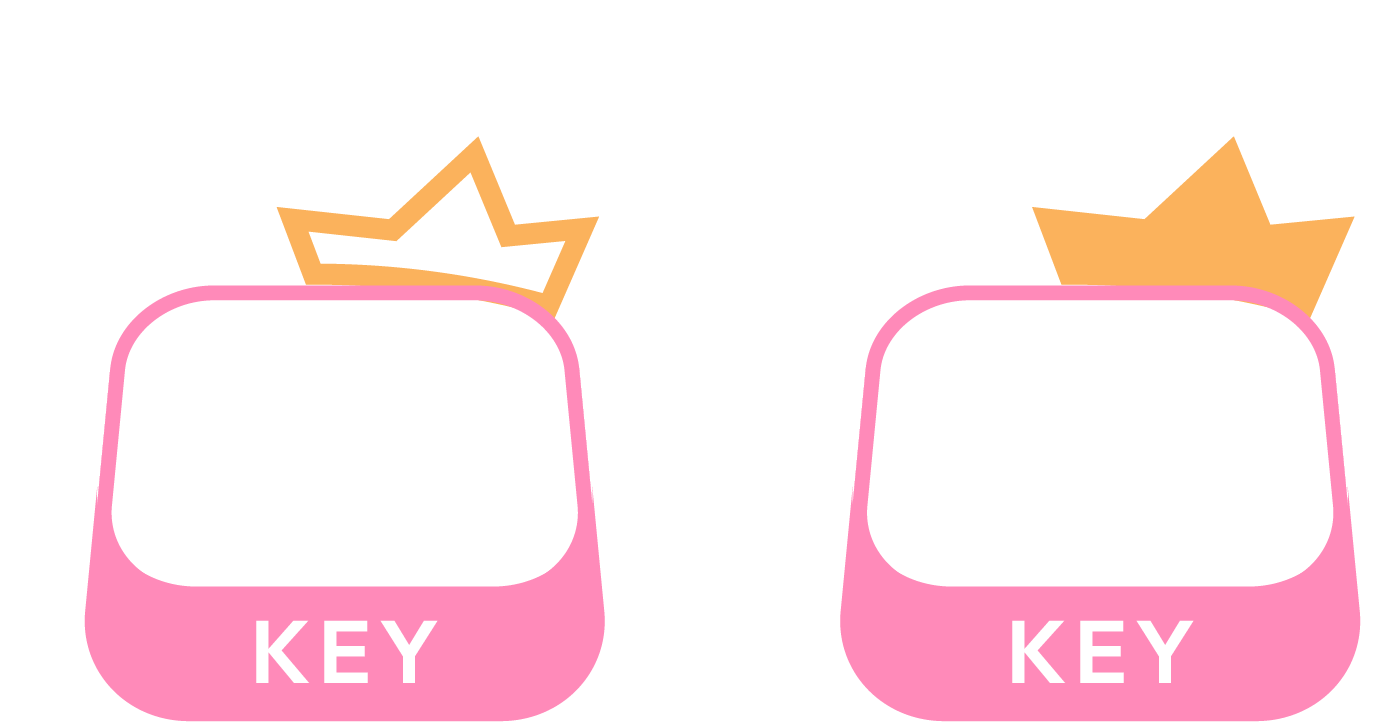
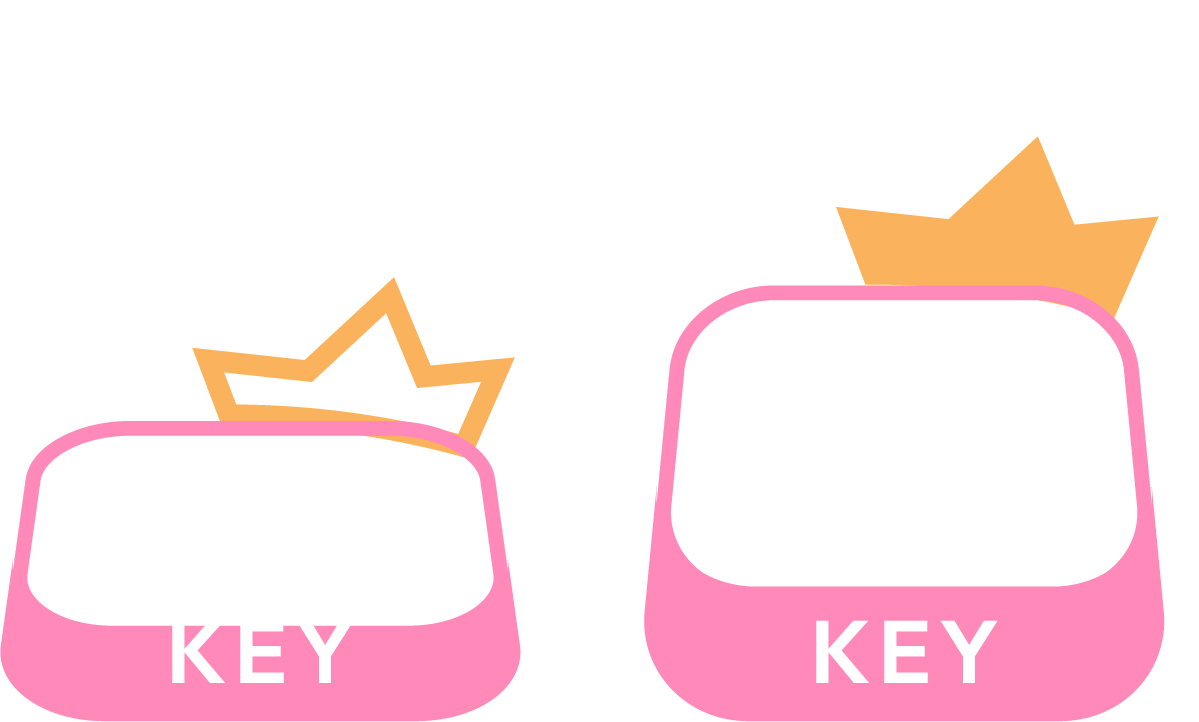
+ KeyPress animation

diff --git a/Assets/0-Scripts/GameLoop.cs b/Assets/0-Scripts/GameLoop.cs
@@ -1,7 +1,5 @@
 using System.Collections.Generic;
 using UnityEngine;
-using Cinemachine;
-using PrimeTween;
 using System.Collections;
 
 public class GameLoop : MonoBehaviour
@@ -20,6 +18,9 @@ public class GameLoop : MonoBehaviour
 
     public GridGenerator GridGenerator { get; private set; }
     public CameraController CameraController { get; private set; }
+
+    [SerializeField] private ISpamKey spamKeyA;
+    [SerializeField] private ISpamKey spamKeyB;
 
     private void Awake()
     {
@@ -57,6 +58,35 @@ public class GameLoop : MonoBehaviour
         }
     }
 
+    private void HandlePlacementInput()
+    {
+        // Find ISpamKey components for UI feedback
+        ISpamKey[] spamKeys = FindObjectsOfType<ISpamKey>();
+        foreach (var key in spamKeys)
+        {
+            if (key.IsPersonA())
+                spamKeyA = key;
+            else
+                spamKeyB = key;
+        }
+
+        if (!placeMe.PlacementComplete || placedPersons == null) return;
+
+        if (Input.GetKeyDown(KeyCode.U))
+        {
+            PlayerDataManager.Instance.IncrementButtonPressA();
+            SpawnPackagesForPerson(0); // First person (Person A)
+            spamKeyA?.OnKeyPress(); // UI feedback
+        }
+
+        if (Input.GetKeyDown(KeyCode.I))
+        {
+            PlayerDataManager.Instance.IncrementButtonPressB();
+            SpawnPackagesForPerson(1); // Second person (Person B)
+            spamKeyB?.OnKeyPress(); // UI feedback
+        }
+    }
+
     private void InitializeSceneReferences()
     {
         GridGenerator = FindObjectOfType<GridGenerator>();
@@ -88,7 +118,6 @@ public class GameLoop : MonoBehaviour
 
     private void DisableBillboardSprites()
     {
-        // Cache all billboard sprites once to improve performance
         if (billboardSprites.Count == 0)
             billboardSprites.AddRange(FindObjectsOfType<BillboardSprite>());
 
@@ -128,23 +157,6 @@ public class GameLoop : MonoBehaviour
         }
     }
 
-    private void HandlePlacementInput()
-    {
-        if (!placeMe.PlacementComplete || placedPersons == null) return;
-
-        if (Input.GetKeyDown(KeyCode.U))
-        {
-            PlayerDataManager.Instance.IncrementButtonPressA();
-            SpawnPackagesForPerson(0); // First person (Person A)
-        }
-
-        if (Input.GetKeyDown(KeyCode.I))
-        {
-            PlayerDataManager.Instance.IncrementButtonPressB();
-            SpawnPackagesForPerson(1); // Second person (Person B)
-        }
-    }
-
     private void SpawnPackagesForPerson(int personIndex)
     {
         placedPersons = placeMe.GetPlacedPersons();
@@ -161,11 +173,11 @@ public class GameLoop : MonoBehaviour
 
     public void SwitchToEndCamera()
     {
-        CameraController.SwitchToCamera(1); // Switch to endVirtualCamera
+        CameraController.SwitchToCamera(1);
     }
 
     public void SwitchToMainCamera()
     {
-        CameraController.SwitchToCamera(0); // Switch to mainVirtualCamera
+        CameraController.SwitchToCamera(0);
     }
 }

diff --git a/Assets/0-Scripts/ISpamKey.cs b/Assets/0-Scripts/ISpamKey.cs
@@ -1,0 +1,56 @@
+using UnityEngine;
+using UnityEngine.UI;
+using PrimeTween;
+using System.Collections;
+
+public class ISpamKey : MonoBehaviour
+{
+    [SerializeField] private bool isPersonA = true;
+    [SerializeField] private Image spriteRenderer;
+    [SerializeField] private Sprite[] spriteSequence; // Animation frames
+    [SerializeField] private float frameRate = 0.5f; // Time per frame
+
+    private RectTransform rectTransform;
+    private bool isShaking;
+
+    private void Start()
+    {
+        rectTransform = GetComponent<RectTransform>();
+
+        if (spriteRenderer == null)
+        {
+            spriteRenderer = GetComponent<Image>();
+        }
+
+        // Start the looping animation
+        StartCoroutine(PlaySpriteSequenceLoop());
+    }
+
+    public void OnKeyPress()
+    {
+        if (!isShaking)
+        {
+            isShaking = true;
+            Tween.ShakeScale(rectTransform, new Vector3(0.5f, 0.5f, 0f), 0.1f).OnComplete(() =>
+            {
+                isShaking = false;
+            });
+        }
+    }
+
+    private IEnumerator PlaySpriteSequenceLoop()
+    {
+        int index = 0;
+        while (true) // Infinite loop
+        {
+            spriteRenderer.sprite = spriteSequence[index];
+            index = (index + 1) % spriteSequence.Length; // Loop back to the start
+            yield return new WaitForSeconds(frameRate);
+        }
+    }
+
+    public bool IsPersonA()
+    {
+        return isPersonA;
+    }
+}
